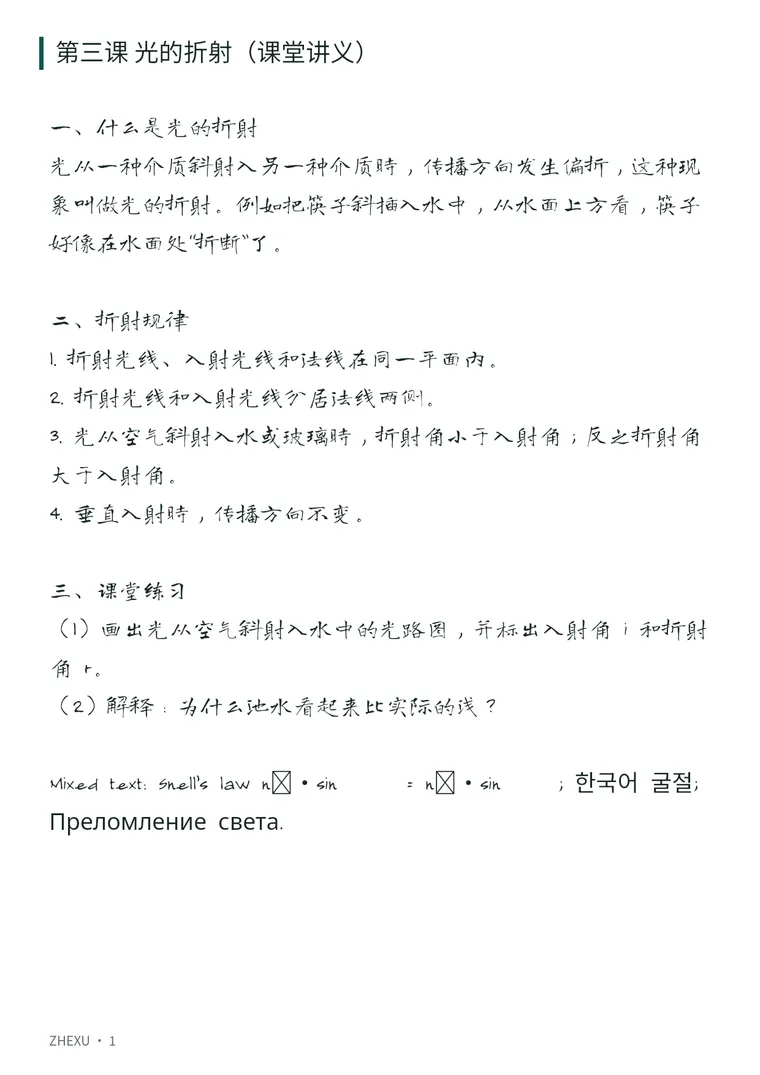
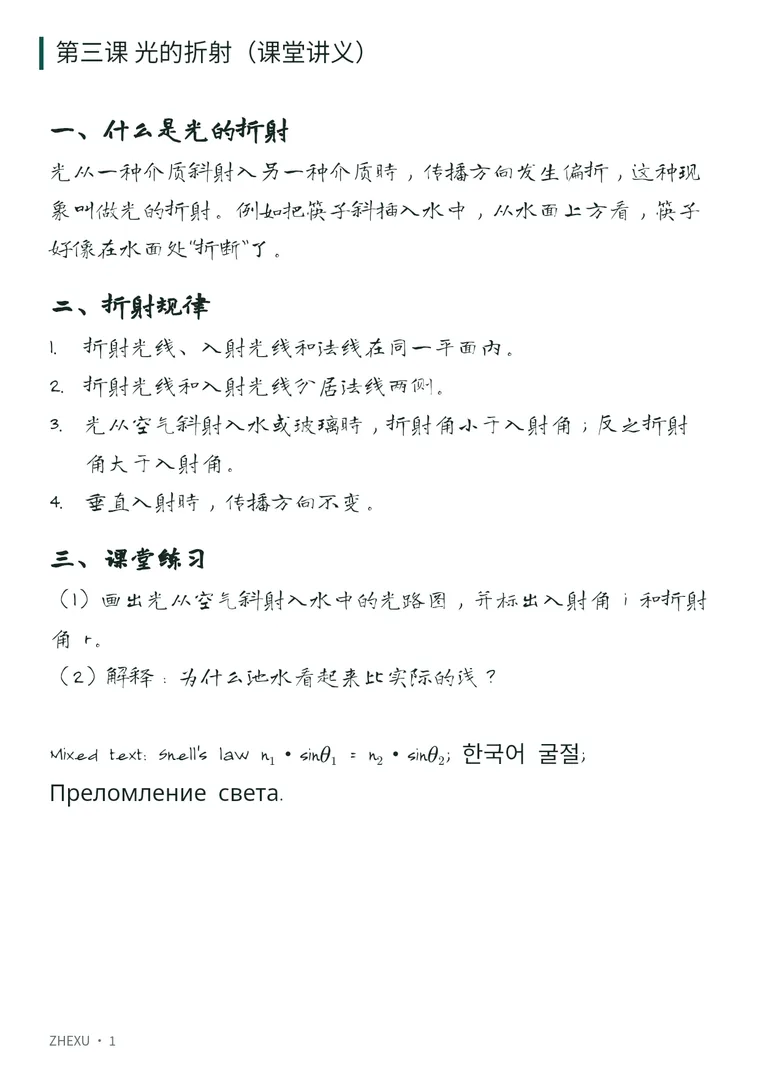
fix(extensions): keep Cyrillic, Greek and Arabic words whole in handouts
The line-break rule kept only A-Z and digits together, so a word in another
script that spaces its words broke in the middle (Преломл / ение). It now
keeps any such word whole; Chinese, Japanese and Korean still break between
characters.

The handwriting sample on the README and the showcase page is now rendered
by zhexu-sample-handouts.test.ts. The old picture came from 0.1.0-rc.1 and
showed a box for the subscript 1 and a gap for theta, fixed since rc.2.

diff --git a/tests/extensions/zhexu-sample-handouts.test.ts b/tests/extensions/zhexu-sample-handouts.test.ts
@@ -40,6 +40,22 @@ const FORMULAS_BODY = [
   `![植物细胞结构示意](${PICTURE_ID})`,
 ].join('\n');
 
+/** The handwriting page. Its last line mixes in Greek, subscripts, Korean and Cyrillic, which other faces draw. */
+const HANDWRITING_BODY = [
+  '## 一、什么是光的折射',
+  '光从一种介质斜射入另一种介质时，传播方向发生偏折，这种现象叫做光的折射。例如把筷子斜插入水中，从水面上方看，筷子好像在水面处“折断”了。',
+  '## 二、折射规律',
+  '1. 折射光线、入射光线和法线在同一平面内。',
+  '2. 折射光线和入射光线分居法线两侧。',
+  '3. 光从空气斜射入水或玻璃时，折射角小于入射角；反之折射角大于入射角。',
+  '4. 垂直入射时，传播方向不变。',
+  '## 三、课堂练习',
+  '（1）画出光从空气斜射入水中的光路图，并标出入射角 i 和折射角 r。',
+  '（2）解释：为什么池水看起来比实际的浅？',
+  '',
+  "Mixed text: Snell's law n₁·sinθ₁ = n₂·sinθ₂; 한국어 굴절; Преломление света.",
+].join('\n');
+
 async function readImage(ref: string): Promise<{ bytes: Uint8Array } | null> {
   return ref === PICTURE_ID ? { bytes: await readFile(PICTURE) } : null;
 }
@@ -53,11 +69,30 @@ describe.skipIf(process.env.ZHEXU_RENDER_SAMPLES !== '1')('sample handout pages'
     );
     // The sample is one page: the PDF holds them all, the PNG is the first.
     expect(outputs.find((output) => output.format === 'pdf')?.pages).toBe(1);
-    const png = outputs.find((output) => output.format === 'png');
-    const webp = await sharp(png!.bytes)
-      .resize({ width: STORED_WIDTH })
-      .webp({ quality: 82, effort: 6 })
-      .toBuffer();
-    await writeFile(join(OUT, 'sample-handout-formulas.webp'), webp);
+    await writeSample(outputs, 'sample-handout-formulas.webp');
+  }, 120_000);
+
+  it('renders the page in the handwriting face', async () => {
+    const outputs = await renderDeliverable({
+      kind: 'document',
+      title: '第三课 光的折射（课堂讲义）',
+      body: HANDWRITING_BODY,
+      style: 'handwriting',
+    });
+    expect(outputs.find((output) => output.format === 'pdf')?.pages).toBe(1);
+    await writeSample(outputs, 'sample-handout.webp');
   }, 120_000);
 });
+
+/** Store the first page image, scaled to the stored width, as WebP. */
+async function writeSample(
+  outputs: Awaited<ReturnType<typeof renderDeliverable>>,
+  name: string,
+): Promise<void> {
+  const png = outputs.find((output) => output.format === 'png');
+  const webp = await sharp(png!.bytes)
+    .resize({ width: STORED_WIDTH })
+    .webp({ quality: 82, effort: 6 })
+    .toBuffer();
+  await writeFile(join(OUT, name), webp);
+}

diff --git a/extensions/zhexu/deliverables/text-layout.ts b/extensions/zhexu/deliverables/text-layout.ts
@@ -1,11 +1,21 @@
 const closing = /^[，。！？；：、）】》」』〕〉,.!?;:%…]/u;
 const opening = /[（【《「『〔〈(\[]$/u;
+/**
+ * A letter or digit of a script that puts spaces between words, such as Latin,
+ * Cyrillic, Greek or Arabic. Chinese, Japanese, Korean and Thai text breaks
+ * between characters instead.
+ */
+const wordChar =
+  /(?![\p{Script=Han}\p{Script=Hiragana}\p{Script=Katakana}\p{Script=Hangul}\p{Script=Thai}])[\p{L}\p{N}\p{M}]/u;
+const startsWord = new RegExp(`^${wordChar.source}`, 'u');
+const endsWord = new RegExp(`${wordChar.source}$`, 'u');
 
 /**
  * Break text into lines no wider than `maxWidth`. Paragraph breaks are kept and
  * no character is dropped. A line never starts with closing punctuation or ends
  * with an opening bracket (spaces after it included, as in a blank `（　）`), and
- * a Latin word is moved to the next line whole when it fits there.
+ * a word of a script that spaces its words (Latin, Cyrillic, Greek, Arabic) is
+ * moved to the next line whole when it fits there.
  *
  * `invisible` marks characters that take no room and are not text, such as the
  * marks of an emphasis change: these rules look through them.
@@ -31,11 +41,7 @@ export function wrapDeliverableText(
       if (line && measure(line + segment) > maxWidth) {
         let carry = segment;
         const split = line.lastIndexOf(' ');
-        if (
-          /^[A-Za-z0-9]/.test(segment) &&
-          /[A-Za-z0-9]$/.test(seen(line)) &&
-          split > line.length / 3
-        ) {
+        if (startsWord.test(segment) && endsWord.test(seen(line)) && split > line.length / 3) {
           carry = line.slice(split + 1) + carry;
           line = line.slice(0, split + 1);
         }

diff --git a/tests/extensions/zhexu-handout-markdown.test.ts b/tests/extensions/zhexu-handout-markdown.test.ts
@@ -221,6 +221,21 @@ describe('line breaks and page breaks around Markdown', () => {
     expect(wrapped).toEqual(['下列说法正确的是', '（   ）']);
   });
 
+  it('keeps a word whole in any script that puts spaces between words', () => {
+    const measure = (text: string) => Array.from(text).length * 10;
+    // Found in the handwriting sample: "Преломление" broke after "Преломл".
+    expect(wrapDeliverableText('Закон: Преломление света', measure, 150)).toEqual([
+      'Закон: ',
+      'Преломление ',
+      'света',
+    ]);
+    expect(wrapDeliverableText('νόμος διάθλαση', measure, 100)).toEqual(['νόμος ', 'διάθλαση']);
+    expect(wrapDeliverableText('قانون الانكسار', measure, 100)).toEqual(['قانون ', 'الانكسار']);
+    // Chinese, Japanese and Korean still break between characters.
+    expect(wrapDeliverableText('光的 折射规律', measure, 50)).toEqual(['光的 折射', '规律']);
+    expect(wrapDeliverableText('빛의 굴절법칙', measure, 50)).toEqual(['빛의 굴절', '법칙']);
+  });
+
   it('starts a page that text ran on to with text, not with the blank lines before it', async () => {
     // 28 lines fill a page of standard text under a one-line title.
     const full = Array.from({ length: 28 }, (_, i) => `第 ${i + 1} 行`).join('\n');

diff --git a/extensions/zhexu/CHANGELOG.md b/extensions/zhexu/CHANGELOG.md
@@ -8,6 +8,14 @@ The format is based on [Keep a Changelog](https://keepachangelog.com/en/1.1.0/).
 
 ## [Unreleased]
 
+### Fixes
+
+- A word in Cyrillic, Greek, Arabic or accented Latin could break in the middle at the end of a line (`Преломл` / `ение`), because only the letters A to Z and digits were kept together. A word in any script that puts spaces between words now moves to the next line whole when it fits there. Chinese, Japanese and Korean text still breaks between characters.
+
+### Documentation
+
+- The handwriting sample on the README and the showcase page is rendered again by [`zhexu-sample-handouts.test.ts`](/tests/extensions/zhexu-sample-handouts.test.ts), so it can be made again. The old picture came from 0.1.0-rc.1 and showed a box for `₁` and a gap for `θ₁`, which 0.1.0-rc.2 had already fixed.
+
 ## [0.1.0-rc.3] - 2026-11-23
 
 The third release candidate for 0.1.0. Handouts now set the Markdown a model writes, the brand reaches upstream's strings and the classic home page, and a first run with a real model made a handout and an annotated image. It is still a candidate: one model and a few requests are not a release check; see "How it was checked". Built on upstream `main` at `b3b51384` (1.5.0-rc.3 and the changes upstream has made since).

diff --git a/.github/README.md b/.github/README.md
@@ -43,7 +43,7 @@ They are off until their switch is set (`ZHEXU_DELIVERABLES_ENABLED`, `ZHEXU_IMA
 | --- | --- | --- |
 | ![A sample A4 handout page: a heading, bold text and a list, a chemical equation, inline formulas, a table with merged cells and a cell diagram](/extensions/zhexu/site/assets/shots/sample-handout-formulas.webp) | ![A sample A4 handout page set in a Chinese handwriting face](/extensions/zhexu/site/assets/shots/sample-handout.webp) | ![A sample annotated image: a drawing with numbered markers and the labels listed under it](/extensions/zhexu/site/assets/shots/sample-annotation.webp) |
 
-These three pages are real output of the renderer, made from test content. The first is rendered by [`zhexu-sample-handouts.test.ts`](/tests/extensions/zhexu-sample-handouts.test.ts) when `ZHEXU_RENDER_SAMPLES=1` is set.
+These three pages are real output of the renderer, made from test content. The first two are rendered by [`zhexu-sample-handouts.test.ts`](/tests/extensions/zhexu-sample-handouts.test.ts) when `ZHEXU_RENDER_SAMPLES=1` is set.
 
 The direction is printable material for teachers, which is where ZHEXU differs from upstream.
 

diff --git a/.github/README-zh.md b/.github/README-zh.md
@@ -43,7 +43,7 @@
 | --- | --- | --- |
 | ![一页 A4 讲义样张：标题、粗体和列表，化学方程式、行内公式、带合并单元格的表格和一张细胞示意图](/extensions/zhexu/site/assets/shots/sample-handout-formulas.webp) | ![一页手写体的 A4 讲义样张](/extensions/zhexu/site/assets/shots/sample-handout.webp) | ![一张带标注的图片样张：图上有编号标记，标注列在图的下方](/extensions/zhexu/site/assets/shots/sample-annotation.webp) |
 
-这三页是渲染器的真实输出，内容是测试用的。第一页由 [`zhexu-sample-handouts.test.ts`](/tests/extensions/zhexu-sample-handouts.test.ts) 在设置 `ZHEXU_RENDER_SAMPLES=1` 时生成。
+这三页是渲染器的真实输出，内容是测试用的。前两页由 [`zhexu-sample-handouts.test.ts`](/tests/extensions/zhexu-sample-handouts.test.ts) 在设置 `ZHEXU_RENDER_SAMPLES=1` 时生成。
 
 方向是给老师的可打印材料，这是折序和上游不重叠的地方。
 
